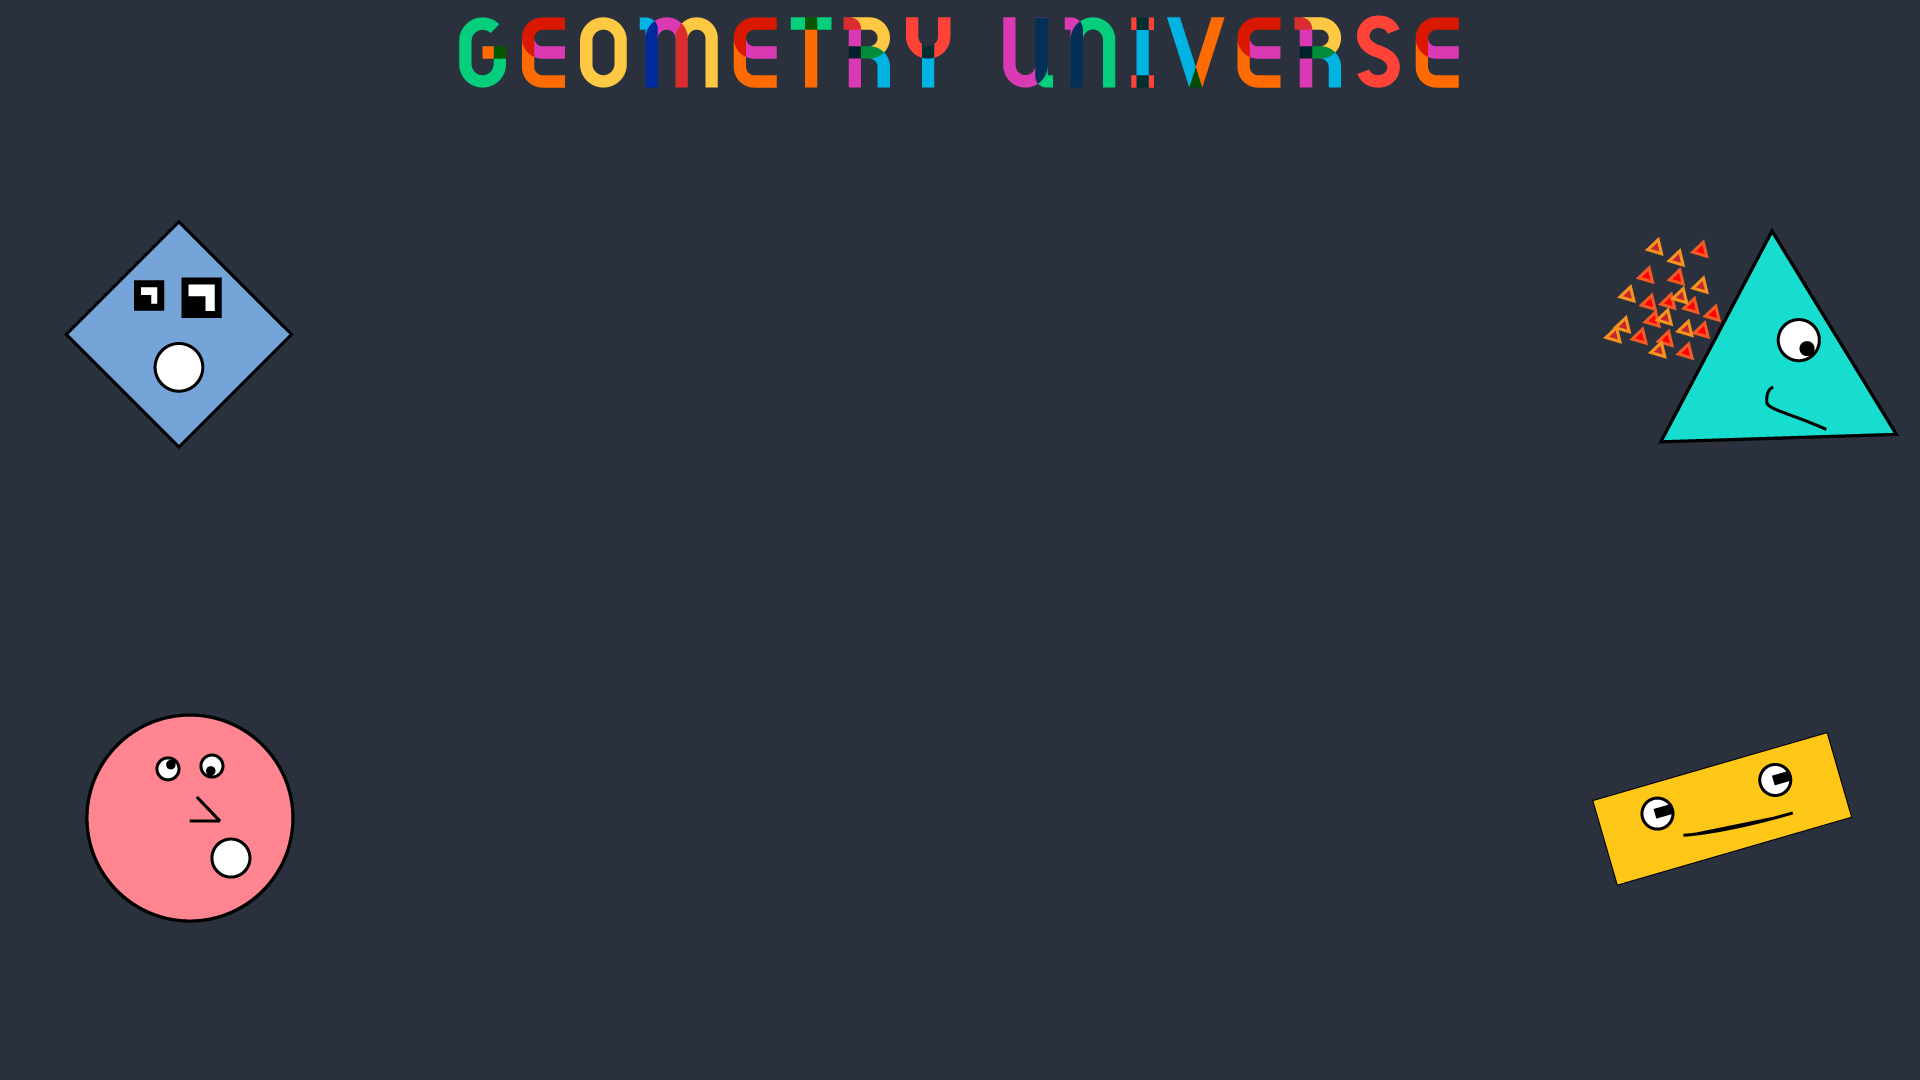
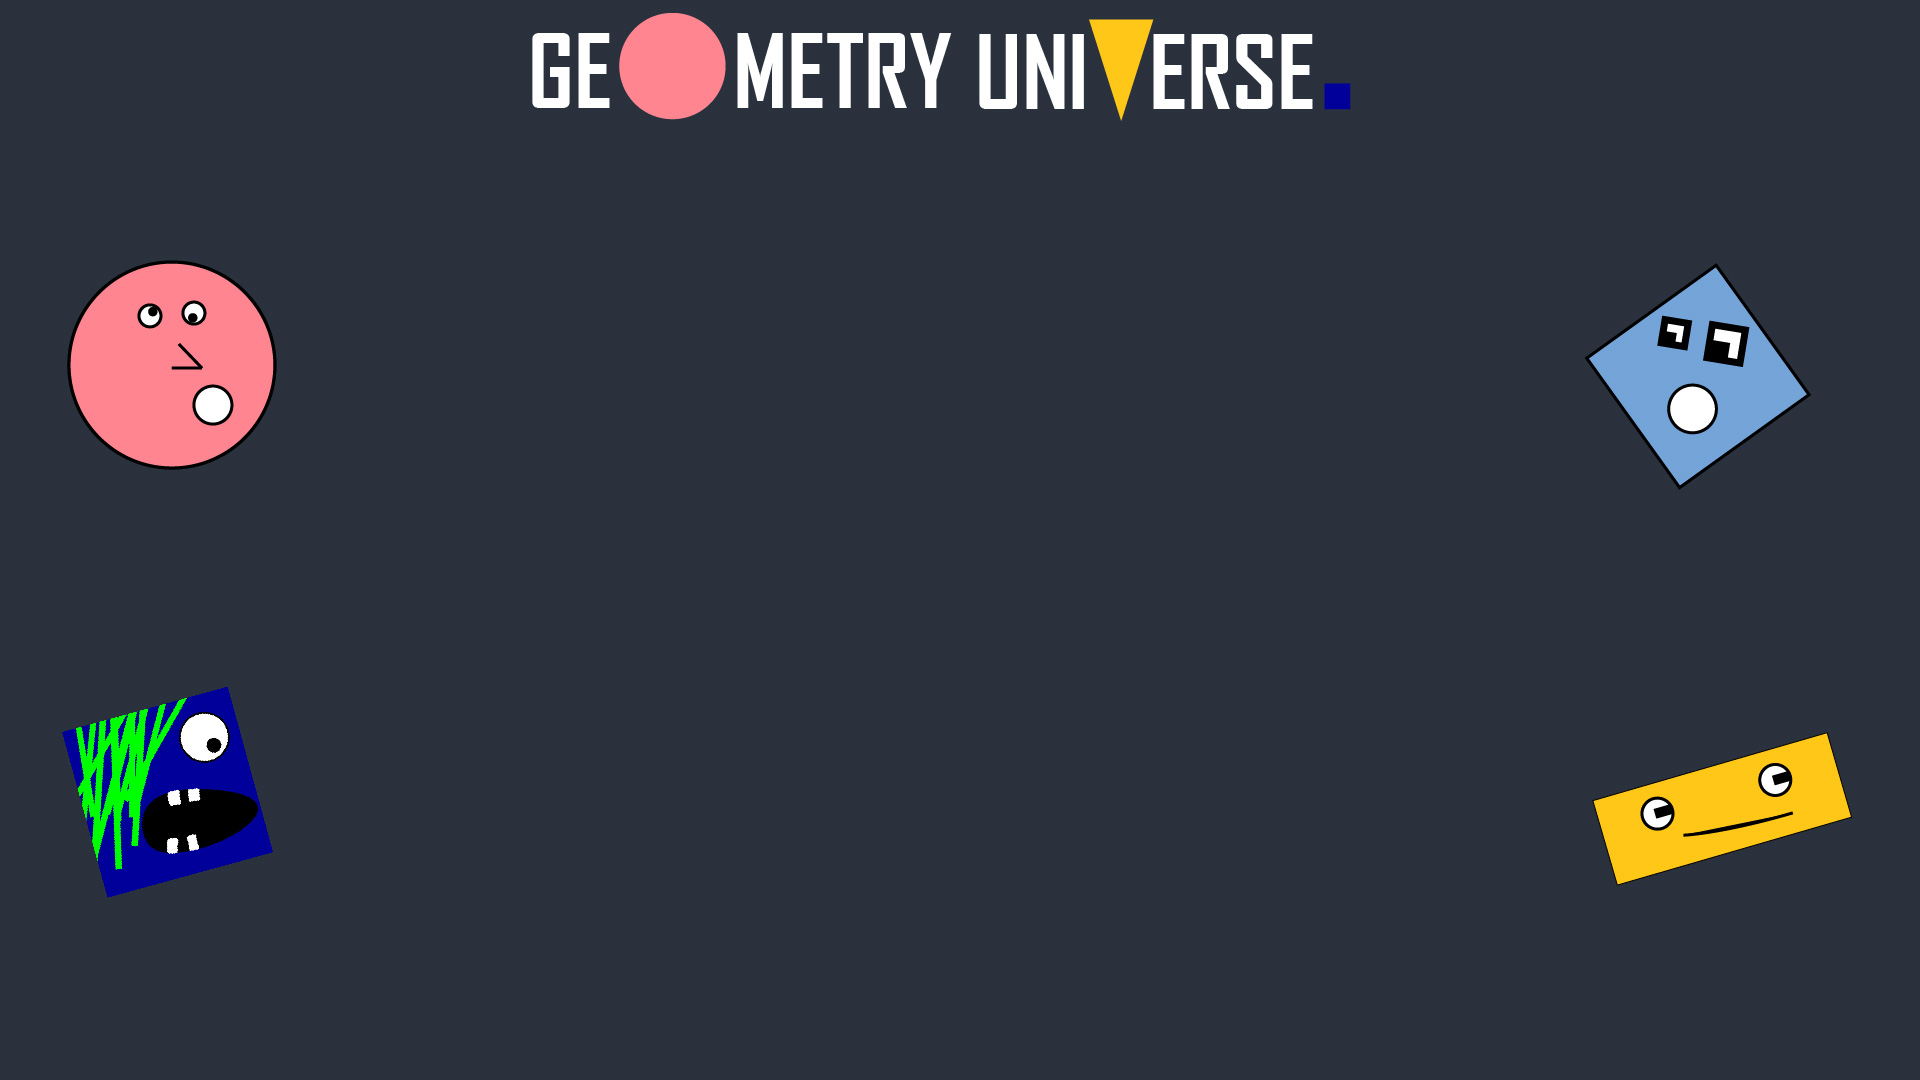
background-all.jpg geändert und Schrift in Level 4 hinzugefügt

diff --git a/js/level-4.js b/js/level-4.js
@@ -48,7 +48,6 @@ function draw() {
     drawShotsBricks();
     collisionWithBricks();
     collisionWithShip();
-    //drawLives();
     drawScore();
 }
 
@@ -179,9 +178,14 @@ function keyUpHandler(e) {
 }
 
 function drawScore() {
-    ctx.font = "16px Arial";
-    ctx.fillStyle = "#008000";
-    ctx.fillText("Score: " + score, 8, 20);
+    ctx.font = "20px Agency FB";
+    ctx.fillStyle = "#0095DD";
+    ctx.fillText("Score: " + score, 50, 20);
+    ctx.font = "20px Agency FB";
+    ctx.fillStyle = "#0095DD";
+    ctx.fillText("Die Wächter des Universums", canvas.width/2, 20);
+    ctx.textAlign = "center";
+
 }
 
 function drawLives() {
